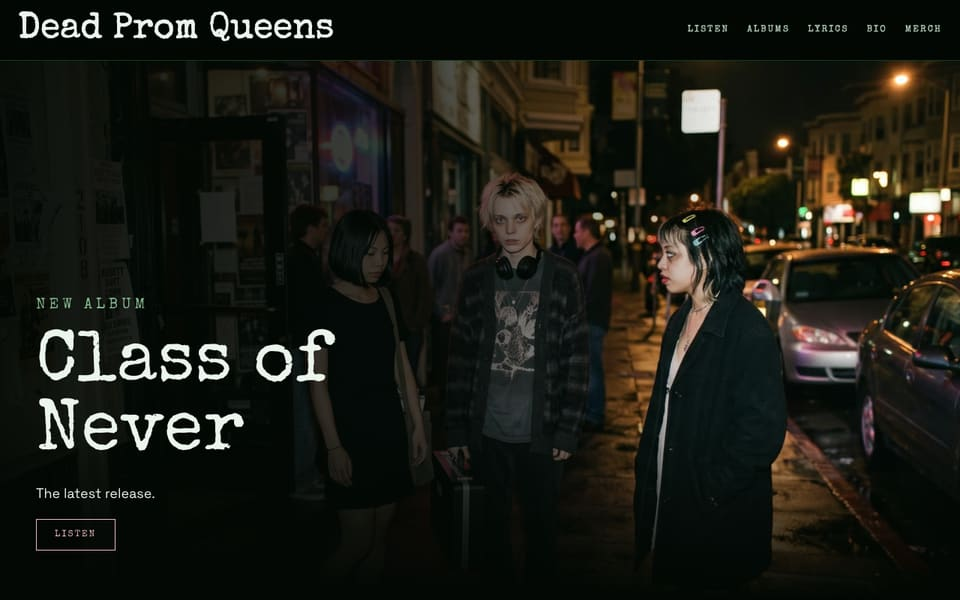
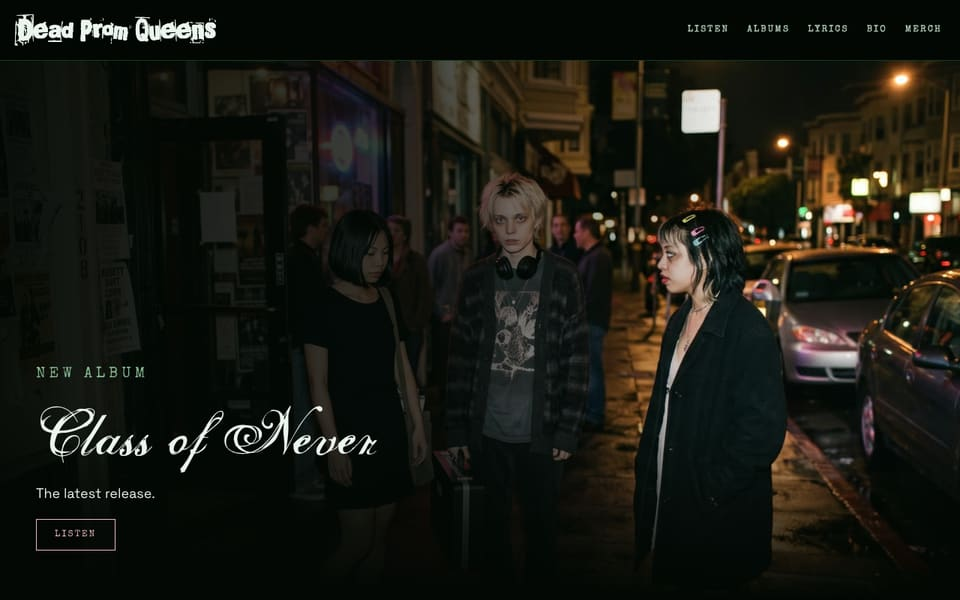
fix: send screenshot bypass token only to the project's own host
A context-wide extra header also rode on cross-origin webfont requests.
That forces a CORS preflight the font host rejects, so Selfish and
Broken 15 on Dead Prom Queens errored and the shot rendered in the
fallback face. Scope the header to the project's hostname via page.route
and re-capture the DPQ shot with the real fonts.

Changed region(s): [[0.0312, 0.54, 0.4062, 0.78], [0.0, 0.0, 0.3438, 0.09], [0.0312, 0.48, 0.1562, 0.51]]

diff --git a/scripts/screenshots.ts b/scripts/screenshots.ts
@@ -56,7 +56,6 @@ const projects: Project[] = JSON.parse(
 await mkdir(OUT, { recursive: true });
 const browser = await chromium.launch();
 const context = await browser.newContext({
-  extraHTTPHeaders: TOKEN ? { [TOKEN_HEADER]: TOKEN } : {},
   viewport: VIEWPORT,
   deviceScaleFactor: 1,
   colorScheme: "dark",
@@ -84,6 +83,19 @@ for (const p of projects) {
     continue;
   }
   const page = await context.newPage();
+  if (TOKEN) {
+    // Only the project's own host gets the token. Setting it context-wide (extraHTTPHeaders) also
+    // rides on cross-origin requests such as webfonts from a files./CDN host; a custom header
+    // forces a CORS preflight those hosts reject, so the fonts error out and the shot silently
+    // renders in the fallback face.
+    const host = new URL(p.url).hostname;
+    await page.route("**/*", (route) => {
+      const req = route.request();
+      return new URL(req.url()).hostname === host
+        ? route.continue({ headers: { ...req.headers(), [TOKEN_HEADER]: TOKEN } })
+        : route.continue();
+    });
+  }
   try {
     // "networkidle" never fires on sites with analytics beacons or long-polling, so wait for the
     // DOM and then give the network a bounded chance to settle instead of failing the shot.

diff --git a/CLAUDE.md b/CLAUDE.md
@@ -49,7 +49,7 @@ Run lint, tsc, tests and build before committing.
 
 - **Blocks that need the media picker name the field `image`** (also `logo`, `thumbnail`, `*ImageUrl`). P1 attaches the media library picker by field name (`puck-css/media-fields`).
 - **Contact form From/Reply-To:** Gmail only sends as the authenticated account, so the visitor goes in the From *display name* and `Reply-To`. Spoofing their address as From would fail SPF/DKIM/DMARC. `SMTP_PASS` must be a Google **app password** (spaces are stripped in code). Rate limiting is in-memory per container, so best-effort only.
-- **Screenshots and Cloudflare:** headless Chromium gets a bot check on some sites. The script detects the interstitial, refuses to save it, and deletes any stale shot. We do not evade challenges. Options: add a per-project `image` (URL downloaded by the script, or a local `/path` under `public/`), or add a Cloudflare skip rule on your own zone matching header `x-screenshot-token` and run with `SCREENSHOT_TOKEN` set. Cards without a shot fall back to a gradient tile with the title. **Pantheon-hosted sites:** `terminus gcdn:bot-bypass <pantheon-site>` returns a per-site token (read-only; the header is `x-pantheon-bot-bypass`). Run with `SCREENSHOT_TOKEN=<token> SCREENSHOT_HEADER=x-pantheon-bot-bypass`. The token only works for the site it was minted for (`paris-site` for paris.jazzsequence.com, not `chrisreynoldsio`). Pull it into an env var without printing it. The script also rejects near-blank frames, because a pre-paint capture of an interstitial can slip past the text check.
+- **Screenshots and Cloudflare:** headless Chromium gets a bot check on some sites. The script detects the interstitial, refuses to save it, and deletes any stale shot. We do not evade challenges. Options: add a per-project `image` (URL downloaded by the script, or a local `/path` under `public/`), or add a Cloudflare skip rule on your own zone matching header `x-screenshot-token` and run with `SCREENSHOT_TOKEN` set. Cards without a shot fall back to a gradient tile with the title. **Pantheon-hosted sites:** `terminus gcdn:bot-bypass <pantheon-site>` returns a per-site token (read-only; the header is `x-pantheon-bot-bypass`). Run with `SCREENSHOT_TOKEN=<token> SCREENSHOT_HEADER=x-pantheon-bot-bypass`. The token only works for the site it was minted for (`paris-site` for paris.jazzsequence.com, not `chrisreynoldsio`). Pull it into an env var without printing it. The script sends the token only to the project's own host (a context-wide header also hits cross-origin webfont requests, forces a CORS preflight the font host rejects, and the shot silently renders in the fallback face; dpq's Selfish/Broken 15 come from `files.deadpromqueens...`). The script also rejects near-blank frames, because a pre-paint capture of an interstitial can slip past the text check.
 - **Cloudflare 508 on some shots:** with an `Accept` header containing webp/avif (every real browser), Cloudflare returns `508 ERROR 9403: Requested resized version of an already-resized image` for some `/shots/*.jpg` (seen on `invert.jpg`, `profile.jpg`; curl with `Accept: */*` is fine). `ProjectCard` then shows the text fallback tile. Test with `curl -H 'Accept: image/webp,*/*'`, not plain curl.
 - **Hero geometry:** the sun's slits and the horizon lines are both derived from `--sw-c1..4` / `--sw-h1..4` on `.sw-hero`. Change those, not the gradients.
 - **Fonts** are self-hosted via `@fontsource` (display: Oxanium; body: Inter; mono: JetBrains Mono). Swap the display face by changing the import in `app/styles.css` and `--sw-font-display`.
